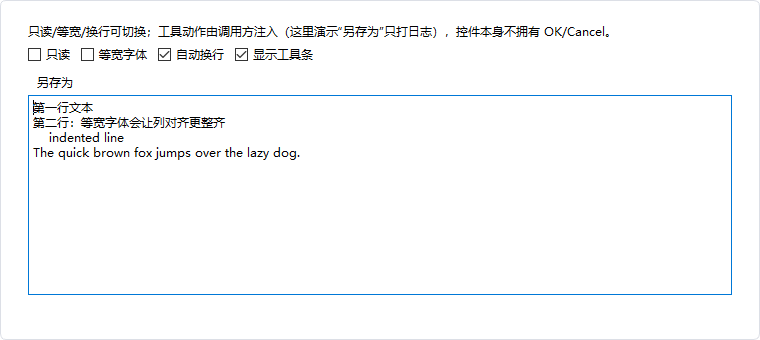
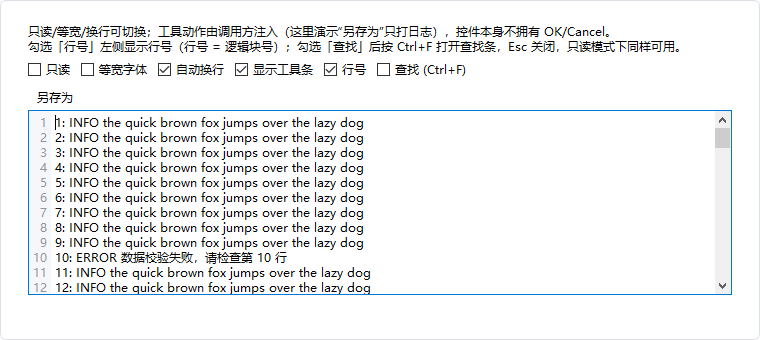
docs(text-edit): 补行号与查找条说明（中文/English）

Changed region(s): [[0.0303, 0.1176, 0.9079, 0.8824], [0.9382, 0.3235, 0.9684, 0.4412]]

diff --git a/docs/en/use-guide/text-edit.md b/docs/en/use-guide/text-edit.md
@@ -14,6 +14,8 @@ The toolbar in the screenshot contains only the "Save As" action injected by the
 - ✅ **Monospace**: `setMonospace()`, ideal for logs and code
 - ✅ **Line wrap**: `setLineWrapEnabled()`
 - ✅ **Injectable tool actions**: `addToolAction(QAction*)`; the caller owns their lifetime
+- ✅ **Line numbers** (optional): a left gutter, off by default
+- ✅ **Find bar** (optional): `Ctrl+F`, wrap-around navigation and all-match highlighting, off by default
 - ✅ **No business logic**: no built-in save/close behavior, easy to reuse in dialogs or dock panels
 
 ## Usage
@@ -44,6 +46,31 @@ QObject::connect(view, &DA::DATextEditWidget::textChanged, []() {
 !!! info "setText does not emit textChanged"
     `setText()` is for programmatic writes and does not emit `textChanged`; only user edits emit it, avoiding feedback loops in the caller.
 
+### Line Numbers
+
+```cpp
+view->setLineNumbersVisible(true);   // default false
+```
+
+- Numbers are painted in a left gutter, follow scrolling, and the gutter width is recomputed from the total line count (also after `setMonospace()` changes the font).
+- **Line number = document block number**: with line wrap enabled, a logical line folded into several visual rows still shows one number.
+- When disabled, `viewportMargins` returns to zero and the gutter takes no width.
+
+### Find Bar
+
+```cpp
+view->setFindEnabled(true);        // default false: allow Ctrl+F
+view->showFindBar("ERROR");        // open and prefill
+view->setFindBarVisible(false);    // hide directly
+```
+
+- After `setFindEnabled(true)`, pressing `Ctrl+F` while focus is inside the widget opens the find bar; `Esc` closes it and returns focus to the editor.
+- The bar contains an input, previous/next, an `n / m` counter, a match-case checkbox and a close button. All matches are highlighted; the current one is darker.
+- Wrap-around is supported: next after the last match returns to the first; with `m == 0` the counter shows `0 / 0` and the input gets the `invalid` dynamic property.
+- **Works in read-only mode too** (it only moves the cursor and highlights, never edits text).
+- If the host also uses `Ctrl+F`, call `setFindEnabled(false)` to yield the shortcut.
+- Line numbers and find are pure view state and add no signals; `textChanged()` still fires only for user edits.
+
 ## Core Properties & Methods
 
 | Method | Description |
@@ -55,6 +82,11 @@ QObject::connect(view, &DA::DATextEditWidget::textChanged, []() {
 | `setPlaceholderText(QString)` | Empty-state placeholder |
 | `addToolAction(QAction*)` | Inject an action into the toolbar |
 | `setToolbarVisible(bool)` / `isToolbarVisible()` | Toolbar visibility |
+| `setLineNumbersVisible(bool)` / `lineNumbersVisible()` | Left line-number gutter (default off) |
+| `setFindEnabled(bool)` / `findEnabled()` | Allow `Ctrl+F` (default off) |
+| `setFindBarVisible(bool)` / `findBarVisible()` | Find bar visibility |
+| `showFindBar(QString)` / `hideFindBar()` | Open (optionally prefilled) / close the find bar |
+| `setFindCaseSensitive(bool)` / `findCaseSensitive()` | Whether find is case-sensitive |
 
 ## References
 

diff --git a/docs/use-guide/text-edit.md b/docs/use-guide/text-edit.md
@@ -16,6 +16,8 @@
 - ✅ **等宽字体**：`setMonospace()`，适合日志与代码
 - ✅ **自动换行**：`setLineWrapEnabled()`
 - ✅ **可注入工具动作**：`addToolAction(QAction*)`，动作生命周期由调用方管理
+- ✅ **行号栏**（可选）：左侧显示行号，默认关闭
+- ✅ **查找条**（可选）：`Ctrl+F` 打开、Enter/按钮环绕查找、全部命中高亮，默认关闭
 - ✅ **不绑定业务**：不内置保存/关闭逻辑，方便复用到对话框或停靠面板
 
 ## 用法
@@ -46,6 +48,31 @@ QObject::connect(view, &DA::DATextEditWidget::textChanged, []() {
 !!! info "setText 不发射 textChanged"
     `setText()` 用于程序化写入，不会触发 `textChanged`；只有用户编辑才会发射，避免调用方回环刷新。
 
+### 行号栏
+
+```cpp
+view->setLineNumbersVisible(true);   // 默认 false
+```
+
+- 行号画在编辑器左侧，随滚动同步，宽度按总行数位数自动重算（`setMonospace()` 换字体后也会重算）。
+- **行号 = 文档块号**：自动换行开启时，一个逻辑行折成多行仍只显示一个行号。
+- 关闭后 `viewportMargins` 归零，不占任何宽度。
+
+### 查找条
+
+```cpp
+view->setFindEnabled(true);        // 默认 false：允许 Ctrl+F
+view->showFindBar("ERROR");        // 直接打开并预填关键词
+view->setFindBarVisible(false);    // 直接隐藏
+```
+
+- `setFindEnabled(true)` 后焦点在本控件内按 `Ctrl+F` 打开查找条；`Esc` 关闭并把焦点还给编辑器。
+- 查找条含输入框、上一个/下一个、`n / m` 计数、区分大小写与关闭按钮；命中会全部高亮，当前命中颜色更深。
+- 支持环绕：最后一个命中再点下一个回到第一个；`m == 0` 时计数为 `0 / 0`，输入框设置 `invalid` 动态属性。
+- **只读模式同样可用**（只移动光标与高亮，不修改文本）。
+- 宿主若也要用 `Ctrl+F`，调用 `setFindEnabled(false)` 让出快捷键即可。
+- 查找与行号都是纯视图状态，不新增信号；`textChanged()` 仍只由用户编辑发射。
+
 ## 核心属性与方法
 
 | 方法 | 说明 |
@@ -57,6 +84,11 @@ QObject::connect(view, &DA::DATextEditWidget::textChanged, []() {
 | `setPlaceholderText(QString)` | 空文本占位提示 |
 | `addToolAction(QAction*)` | 向工具条注入动作 |
 | `setToolbarVisible(bool)` / `isToolbarVisible()` | 工具条显隐 |
+| `setLineNumbersVisible(bool)` / `lineNumbersVisible()` | 左侧行号栏（默认关闭） |
+| `setFindEnabled(bool)` / `findEnabled()` | 允许 `Ctrl+F`（默认关闭） |
+| `setFindBarVisible(bool)` / `findBarVisible()` | 查找条显隐 |
+| `showFindBar(QString)` / `hideFindBar()` | 打开（可预填） / 关闭查找条 |
+| `setFindCaseSensitive(bool)` / `findCaseSensitive()` | 查找是否区分大小写 |
 
 ## 参考
 
